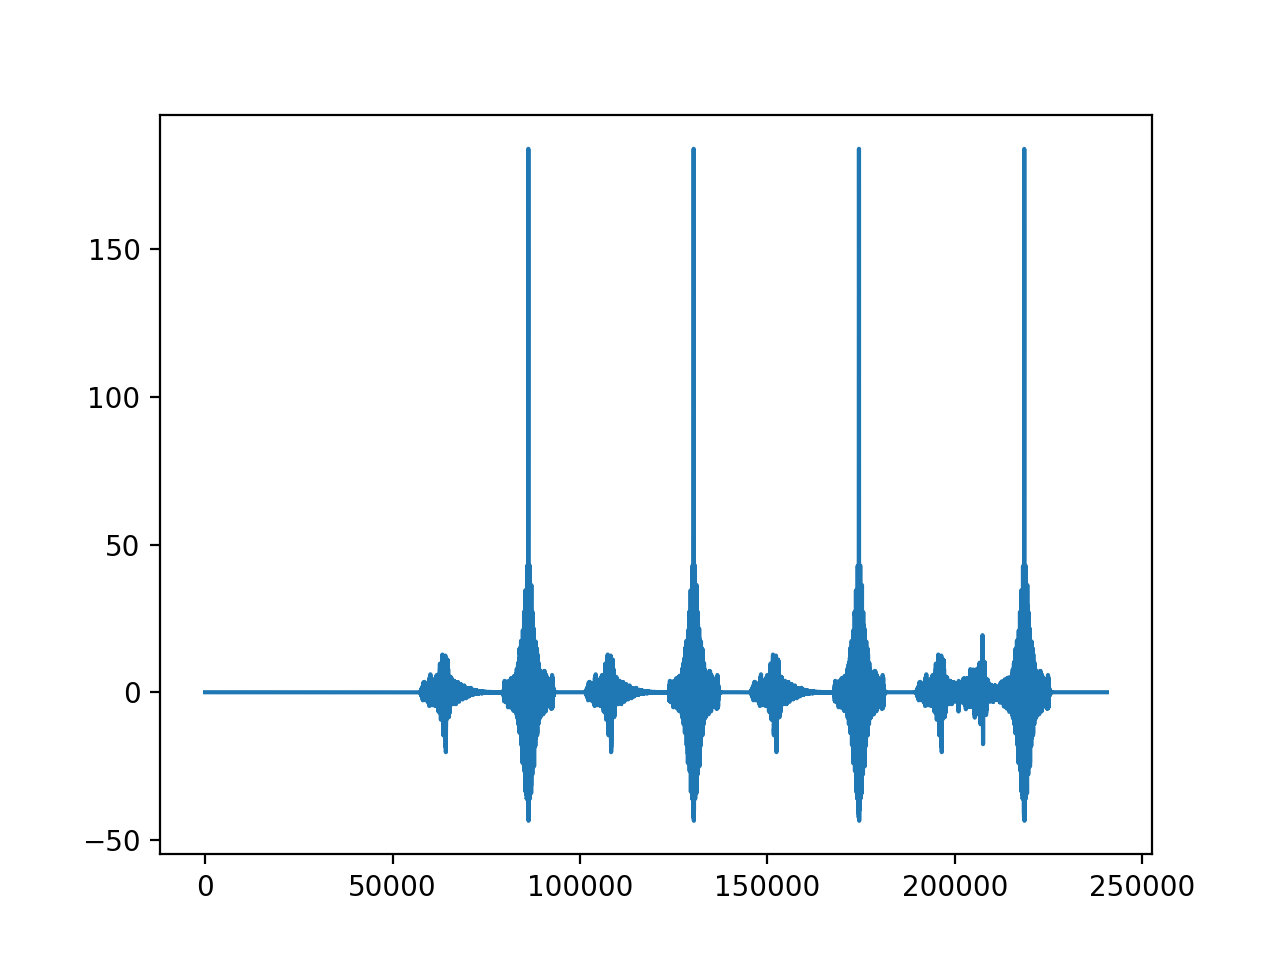
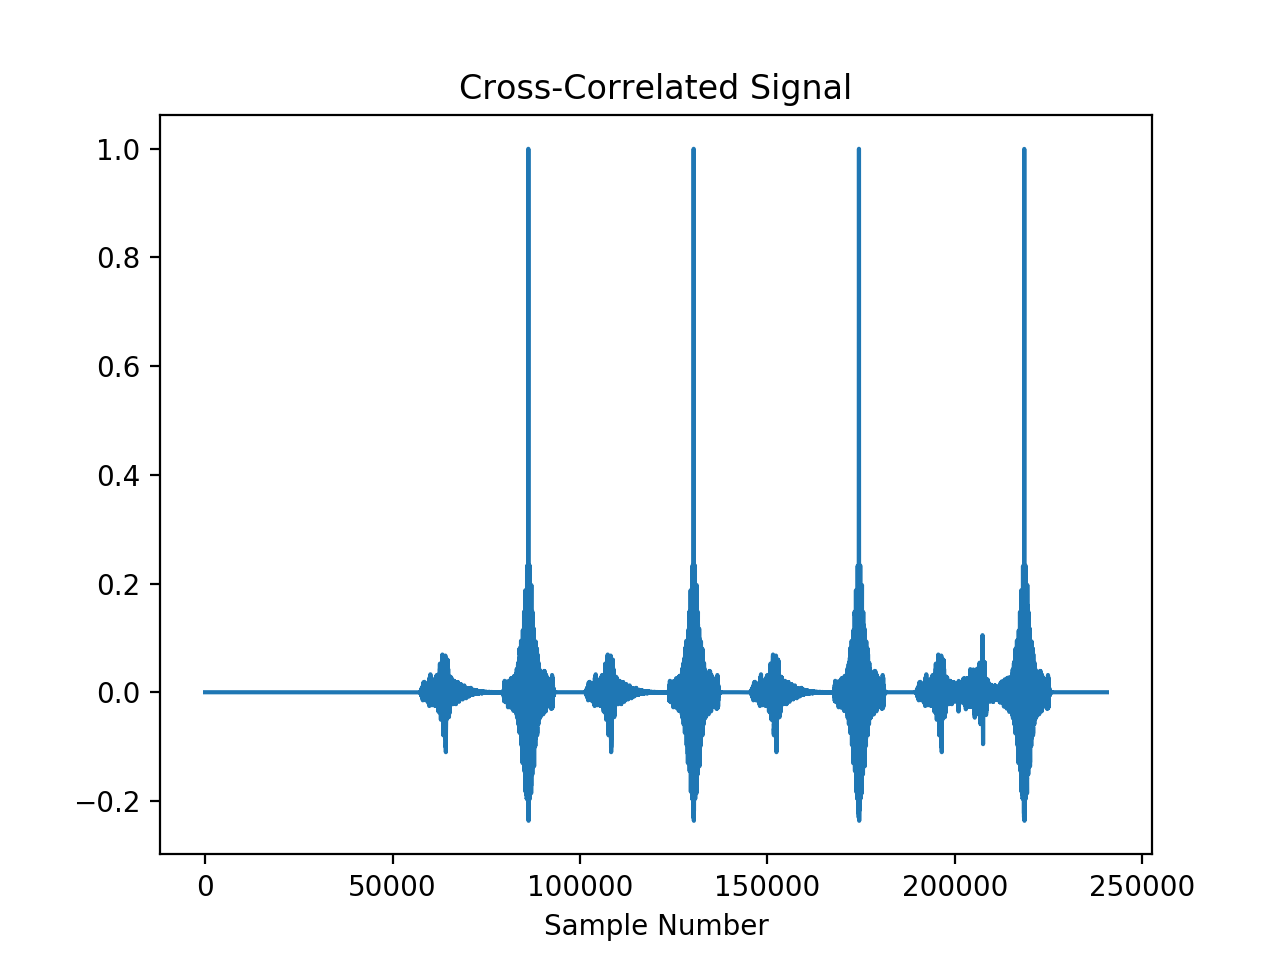
assignment1

diff --git a/assignment1/question_two.py b/assignment1/question_two.py
@@ -15,7 +15,7 @@ def findSnarePosition(snareFilename, drumloopFilename):
     drum = loadSoundFile(drumloopFilename)
 
     z = crossCorr(drum, snare)
-    peak_indices = find_peaks(z, threshold = 50)
+    peak_indices = find_peaks(z, threshold = 0.2)
 
     ## find position in drum loop file (in seconds)
     # total duration of drum loop file in seconds
@@ -26,7 +26,7 @@ def findSnarePosition(snareFilename, drumloopFilename):
     snare_length = snare.shape[0]
     drum_length = drum.shape[0]
     for idx in peak_indices[0]:
-        sec = duration * (idx-snare_length) / drum_length
+        sec = duration * (idx-snare_length+1) / drum_length
         output.append(sec)
 
     return output 
@@ -40,9 +40,10 @@ if __name__ == '__main__':
     snareFile_path = os.path.join(cur_dir, snareFile)
 
     snare_location = findSnarePosition(snareFile_path, drumloopFile_path)
-    '''
+    
     # write file 
-    with open('02-snareLocation.txt', 'w') as f:
+    with open('results/02-snareLocation.txt', 'w') as f:
         for item in  snare_location:
             f.write("%s\n" % item)
-    '''
+    
+    

diff --git a/assignment1/question_one.py b/assignment1/question_one.py
@@ -12,8 +12,9 @@ def crossCorr(x, y):
     input: x,y as numpy arrays
     output: an array
     '''
-
-    return correlate(x, y, "full") 
+    z = correlate(x, y, "full") 
+    z /= np.max(z)
+    return z
 
 
 def loadSoundFile(filename):
@@ -57,9 +58,13 @@ if __name__ == '__main__':
 
     z = crossCorr(drum, snare)
     
-    '''
-    plt.plot(z)
-    plt.show()
-    #plt.savefig("01-correlation.png")
-    '''
+    fig = plt.figure()
+    ax = fig.add_subplot(1,1,1)
+    ax.plot(z)
+    ax.set_title("Cross-Correlated Signal")
+    ax.set_xlabel("Sample Number")
+    #plt.show()
+    #plt.savefig("results/01-correlation.png", format = "png")
+
+    
     
